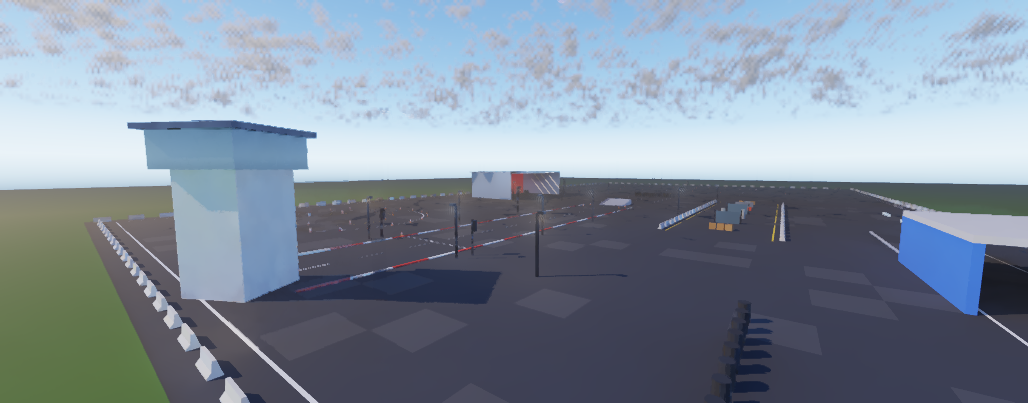
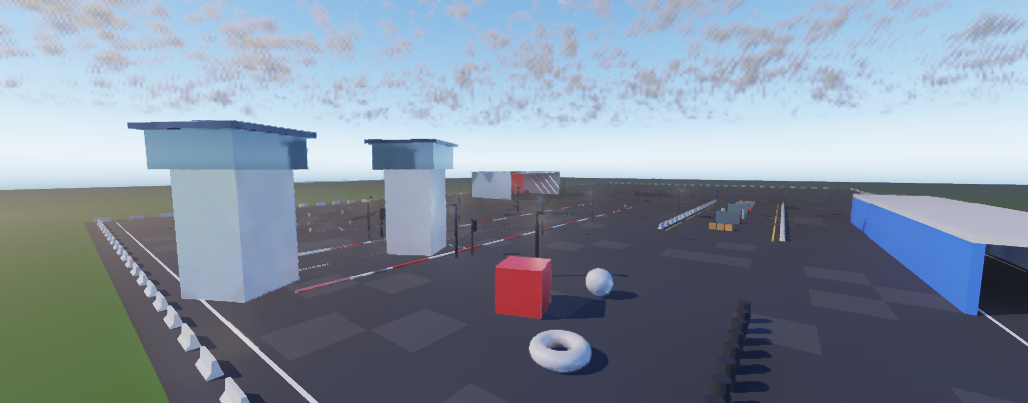
Scene objects part 2: capture images (RTX, GTX, analytic), the Construct dialog and the move handles; README section and Tracker entry; Construct dialog closes cleanly from outside; modifier caption names the shape

diff --git a/Exhibits/SceneViewport/Code/SceneGeometryCapture.cpp b/Exhibits/SceneViewport/Code/SceneGeometryCapture.cpp
@@ -98,7 +98,10 @@ int main(int ArgumentCount, char** Arguments)
         std::vector<uint8_t>          ViewportPixels;
         std::array<uint32_t, 2>       ViewportExtent = {0, 0};
         std::string                   LastStatus;
+        bool                          Frozen = false;   // [-] interface-only ticks: the last image stays, nothing renders
+        Everest::SceneViewportImage   LastImage;
         Workspace.PresentSceneViewport = [&](const Everest::SceneViewportRequest& Request) {
+            if (Frozen && LastImage.Texture != 0) return LastImage;
             const auto Start = std::chrono::steady_clock::now();
             const Everest::SceneViewportRefresh Outcome = Bridge.Render(Request, Workspace.QuerySceneWorld(), Workspace.QueryElapsedSeconds());
             Everest::SceneViewportImage Image;
@@ -112,6 +115,7 @@ int main(int ArgumentCount, char** Arguments)
             }
             std::printf("  viewport %u x %u in %.1f s — %s\n", Outcome.Extent[0], Outcome.Extent[1],
                         std::chrono::duration<double>(std::chrono::steady_clock::now() - Start).count(), Outcome.Status.c_str());
+            LastImage = Image;
             return Image;
         };
         SceneWorld& World    = Workspace.QuerySceneWorld();
@@ -253,10 +257,19 @@ int main(int ArgumentCount, char** Arguments)
         const RecordToken Cube  = Construct("Cube", 3.0f, -44.0f, -21.0f, std::array<float, 3>{0.62f, 0.05f, 0.04f});
         const RecordToken Ball  = Construct("Sphere", 2.0f, -39.0f, -24.0f, std::nullopt);
         const RecordToken Torus = Construct("Torus", 3.0f, -48.0f, -26.0f, std::nullopt);
-        Workspace.QueryOutliner().Select(FindGeometry(World, "Burnout tyre wall")->QueryToken());
+        // 📝 The cube selected: its move handles over the viewport.
+        Workspace.QueryOutliner().Select(Cube);
         Tick(std::max(2, Refreshes / 2));
         WriteWorkspace(OutputDir / "Workspace-Edited.png");
         const std::vector<uint8_t> After = WriteViewport(OutputDir / "Viewport-After.png");
+        // 📝 The Construct dialog (Ctrl+A) over the workspace, on interface-only ticks.
+        Frozen = true;
+        Workspace.QueryConstructDialog().Open();
+        Tick(2);
+        WriteWorkspace(OutputDir / "Workspace-Construct.png");
+        Workspace.QueryConstructDialog().Close();
+        Tick(1);
+        Frozen = false;
         WritePage("Burnout tyre wall");
         WritePage("Tunnel");
         WritePage("Cube");

diff --git a/Frontier/Engine/Interface/ConstructPanel.cpp b/Frontier/Engine/Interface/ConstructPanel.cpp
@@ -94,9 +94,10 @@ void ConstructPanel::Open()
 
 void ConstructPanel::Close()
 {
-    Open_   = false;
-    Raise_  = false;
-    Picked_ = -1;
+    Dismiss_ = Open_ && !Raise_;
+    Open_    = false;
+    Raise_   = false;
+    Picked_  = -1;
 }
 
 //------------------------------------------------------------------------------------------------------------------------
@@ -105,7 +106,17 @@ void ConstructPanel::Close()
 
 std::optional<ConstructOrder> ConstructPanel::Construct(float Scale)
 {
-    if (!Open_) return std::nullopt;
+    if (!Open_)
+    {
+        // 📝 Closed from outside while the modal was up: it is submitted once more to close it.
+        if (Dismiss_ && ImGui::BeginPopupModal(DialogKey, nullptr, ImGuiWindowFlags_NoTitleBar | ImGuiWindowFlags_NoSavedSettings))
+        {
+            ImGui::CloseCurrentPopup();
+            ImGui::EndPopup();
+        }
+        Dismiss_ = false;
+        return std::nullopt;
+    }
     const float           S     = std::max(0.5f, Scale);
     const EditorTypefaces Faces = EditorTypefaces::Resolve();
     if (Raise_)
@@ -134,7 +145,8 @@ std::optional<ConstructOrder> ConstructPanel::Construct(float Scale)
     ImGui::PopStyleColor(3);
     if (!Shown)
     {
-        Close();
+        Open_   = false;
+        Picked_ = -1;
         return std::nullopt;
     }
 
@@ -436,7 +448,8 @@ std::optional<ConstructOrder> ConstructPanel::Construct(float Scale)
     if (Closing)
     {
         ImGui::CloseCurrentPopup();
-        Close();
+        Open_   = false;
+        Picked_ = -1;
     }
     ImGui::EndPopup();
     return Order;

diff --git a/Frontier/Engine/Interface/Inspectors/Geometry/ModifierStackSection.cpp b/Frontier/Engine/Interface/Inspectors/Geometry/ModifierStackSection.cpp
@@ -253,9 +253,12 @@ bool ModifierStackSection::Construct(ControlColumn& Page, GeometryConfiguration&
         // 📝 Copies past the archive's placements come from the reserve (the scene archive's former stress pool) while it lasts.
         const size_t Drawable = std::min<size_t>(Copies, Resolved.Authored + Resolved.Reserved + Resolved.ReserveFree / std::max<uint32_t>(1u, Resolved.Parts));
         const size_t Shown    = Parameters.Visible ? Drawable : 0;
+        // 📝 A shape's facet set is named "Shape <Name>"; the caption names the shape.
+        std::string ShapeName = Resolved.Shapes.empty() ? std::string("engine shape") : Resolved.Shapes.front();
+        if (ShapeName.rfind("Shape ", 0) == 0) ShapeName = ShapeName.substr(6);
         if (Stack.empty() && Resolved.Shape)
             std::snprintf(Text, sizeof(Text), "No modifiers: one %s, laid out from the reserve (%u occupants free). Add an Array to repeat it.",
-                          Resolved.Shapes.empty() ? "engine shape" : Resolved.Shapes.front().c_str(), Resolved.ReserveFree);
+                          ShapeName.c_str(), Resolved.ReserveFree);
         else if (Stack.empty() && Resolved.Authored > 0)
             std::snprintf(Text, sizeof(Text), "No modifiers: the object shows the scene archive's %u placement%s. Add an Array to repeat it.", Resolved.Authored,
                           Resolved.Authored == 1 ? "" : "s");

diff --git a/Frontier/Engine/Interface/ConstructPanel.h b/Frontier/Engine/Interface/ConstructPanel.h
@@ -64,6 +64,7 @@ class ConstructPanel
     std::vector<ConstructCatalogueEntry> Catalogue_{};
     bool                                 Open_    = false;
     bool                                 Raise_   = false;   // [-] the modal opens on the next Construct
+    bool                                 Dismiss_ = false;   // [-] closed from outside: the modal closes on the next Construct
     std::string                          Group_   = "All";
     std::array<char, 96>                 Query_{};
     int                                  Picked_  = -1;      // [-] the catalogue entry of the properties step

diff --git a/Exhibits/SceneViewport/README.md b/Exhibits/SceneViewport/README.md
@@ -368,7 +368,7 @@ global-illumination refresh there, 0.2 s per analytic one.
 
 ![The nine sections of the Render settings page](Images/RenderSettings/Sections.jpg)
 
-## Scene objects: the geometry inspector and the modifier stack
+## Scene objects: the geometry inspector, the modifier stack and the editor's tools
 
 The proving ground's objects are level records: 37 `Geometry` records in
 `Projects/Everest/Content/Levels/Default.levelspace`, in eight Outliner groups (Course, Boundary, Cones, Hangar, Tunnel,
@@ -396,31 +396,88 @@ lay the copies out exactly where the demo's `LevelStructure.js` placed them:
 The **geometry inspector** is the Project Zero editor's object inspector (SultanAladin/Frontier-
 `Experimental/ProjectZeroEditor`, the geometry page of `Inspectors.jsx`) in C++, one class per card
 (`Interface/Inspectors/GeometryInspector`, `Inspectors/Geometry/`). New reusable controls: `RecordHeading`,
-`TransformTable`, `QuickTiles`, `ModifierPanel`, `ChannelRows`, `CardTitleRow` and `NotesField`.
+`TransformTable`, `QuickTiles`, `ModifierPanel`, `ChannelRows`, `CardTitleRow`, `NotesField` and `PlacementGizmo`.
 
-| Card           | Project Zero editor          | Here                                          | Renderer           |
-|----------------|------------------------------|-----------------------------------------------|--------------------|
-| Heading        | breadcrumb, title, notes     | the same; the notes are saved with the level  | —                  |
-| Transform      | position, rotation, scale    | the same: drag to scrub, double-click to type | ✔ all copies move  |
-| Quick controls | six tiles                    | the same tiles; Physics needs Dynamic         | Visible, Locked ✔  |
-| Modifiers      | —                            | Blender's stack (below)                       | ✔                  |
-| Material       | compact MaterialPanel        | the copies' families from `Materials.bin`     | read-only          |
-| Fracture       | switch, Fracture editor      | the switch, cells, impulse, the editor        | authored           |
+| Card           | Project Zero editor       | Here                                            | Renderer           |
+|----------------|---------------------------|-------------------------------------------------|--------------------|
+| Heading        | breadcrumb, title, notes  | the same; the notes are saved with the level    | —                  |
+| Transform      | position, rotation, scale | the same, plus the viewport's W / E / R handles | ✔ all copies move  |
+| Quick controls | six tiles                 | the same tiles; Physics needs Dynamic           | ✔ all but Physics  |
+| Modifiers      | —                         | Blender's stack (below)                         | ✔ with the reserve |
+| Material       | compact MaterialPanel     | the channels and their controls                 | ✔ per object       |
+| Fracture       | switch, Fracture editor   | the switch, cells, impulse, the editor          | authored           |
 
 The modifier stack follows Blender's: *Add modifier* opens the menu (Generate › Array), and each modifier is a card with
 its fold chevron, viewport switch, move up, move down and remove. An Array card has the fit type (fixed count), the
 count, the relative offset (factors of one copy's extent), the constant offset (metres), the rotation step about Z and
 its pivot (each copy, or the object's origin for a radial array). Under the stack the inspector says how many copies
-the stack makes and how many the viewport shows.
+the stack makes, how many come from the reserve and how many the viewport shows.
 
-**How edits reach the renderer.** `Projects/Everest/Source/EverestSceneGeometry` binds each record to its occupants and
-evaluates its transform and modifier stack (`Scene/GeometryLayout`) into occupant placements.
+### Adding, moving and removing objects
+
+The owner asked for the Project Zero editor's tools (its Construct menu for primitives), for moving, adding and
+deleting objects, and for engine shapes as `.toml` files in the content folder with baked distance fields. Fracture
+stays a no-op and the physics (Jolt) is not added yet.
+
+- **Construct** (**Ctrl+A** or the Outliner's **+**): `ConstructPanel.jsx` in C++ (`Interface/ConstructPanel`), with
+  its category rail, search and entity tiles, then the name and properties and *Add to scene*. It offers the six
+  engine shapes and the level's environment and weather records.
+- **Engine shapes** (`EngineContent/ShapeArchives/*.toml`): Cube, Sphere, Cylinder, Cone, Torus and Plane (a 1 cm
+  slab), each with its baked signed distance volume (`.sdfspace`).
+- **Row menu** (right-click an Outliner row): Rename (F2, inline), Hide / Show, Fracture (no action yet), Duplicate
+  (Ctrl+D) and Remove (Del).
+- **Picking:** a click in the viewport selects the object whose part the ray meets first (by bounding box).
+- **Transform handles** (**W**, **E**, **R**; `Interface/Controls/PlacementGizmo`): move along the world axes, turn
+  about the object's Euler axes, scale along its axes or uniformly. Ctrl snaps to 0.25 m, 15° and 0.1; Esc undoes the
+  drag.
+- **Material controls** (the Material card): base colour, roughness, metallic, reflectance, clear coat, transmission
+  and emission, per object.
+
+A shape archive names its primitive, size, tessellation, surface (the `MaterialSpecification` channels), card density
+and distance volume. `ShapeArchiveBake EngineContent/ShapeArchives` tessellates each shape
+(`Engine/Geometry/ShapeArchive`) and bakes its exact distance with a winding-number sign, 40 voxels of 3.125 cm per
+metre of the shape; `ShapeArchiveBake … check` (ctest `ShapeArchiveBakeValidation`) bakes again and compares within
+the float16 rounding. A new shape lands on the ground where the view looks, resting on it.
+
+| Shape    | Triangles | Volume (voxels) | Largest deviation from the ideal form |
+|----------|----------:|-----------------|---------------------------------------|
+| Cube     | 12        | 40 × 40 × 40    | 0 (exact)                             |
+| Sphere   | 960       | 40 × 40 × 40    | 4.78 mm                               |
+| Cylinder | 128       | 40 × 40 × 40    | 2.41 mm                               |
+| Cone     | 64        | 40 × 40 × 40    | —                                     |
+| Torus    | 768       | 40 × 40 × 18    | 7.36 mm                               |
+| Plane    | 12        | 40 × 40 × 9     | 0 (exact)                             |
+
+**How the renderer takes new objects.** The scene archive's stress-test pool (occupants 922–1858) becomes the editor's
+**reserve**: 512 inactive occupants (#922–#1433, under the distance field's identity ceiling of 2044) that copies past
+the archive's and constructed objects take. The rest of the pool leaves every refresh. A reserve occupant first takes
+its template's shape: facet set, cards (captured again in a runtime shelf of the card atlas), BLAS root and profile
+(`IlluminationHost::AssignReserveOccupant`). The engine shapes join as facet sets after the archive's, their baked
+volumes go into the distance atlas, and the reserve lends each shape one occupant at bring-up. Removing one of the
+archive's objects hides its occupants while the level holds Geometry records. When the reserve runs out, the
+inspector says how many copies are not drawn.
+
+**Per-object switches.** Dynamic relights the object's cards every refresh. Cast shadows off leaves it out of the
+shadow runs, the shadow rays and the analytic solar depth (`ShadowExempt`). GI off leaves it out of the distance union
+and the traced rays (`IndirectExempt`). Physics stays an authored flag.
+
+**Materials.** The first edit of a family copies it into the object's own material block (96 blocks after the family
+table; the occupant's override carries `MaterialBlockBit` and the block's base), and its cards are captured again.
+*Revert to the shared family* drops the copy. The other objects sharing the family keep the scene archive's values.
+
+**Scaled copies in the distance field (GTX).** The union multiplies a copy's local distance by 1/√g, where g is the
+largest absolute row sum of AᵀA for its world-to-local map A (Gershgorin). That is exact for a uniform scale and
+never an overestimate otherwise, so a march never steps through a stretched copy.
+
+**How edits reach the renderer.** `Projects/Everest/Source/EverestSceneGeometry` binds each record to its occupants (or
+to an engine shape) and evaluates its transform and modifier stack (`Scene/GeometryLayout`) into occupant placements.
 `Rendering/GlobalIllumination/OccupantRelocation` (beyond the demo) applies them between refreshes:
 
 - the occupant profiles are rewritten, and a moved occupant carries its motion for one refresh (motion vectors);
-- a visibility change rebuilds the draw runs and the card tile lists;
+- a reserve occupant takes its template's shape, cards and profile first;
+- a visibility or shadow change rebuilds the draw runs and the card tile lists;
 - the distance field is invalidated over the old and the new bounds;
-- the moved occupants' cards relight first;
+- the moved occupants' cards relight first, and a changed surface is captured again;
 - the street lamps and lanterns follow their heads, and a hidden head leaves its light off.
 
 A copy at the archive's own placement keeps the archive's transform bit for bit, so the default level renders as before.
@@ -437,21 +494,38 @@ A copy at the archive's own placement keeps the archive's transform bit for bit,
 |---|---|
 | ![Crates](Images/Geometry/Inspector-Woodencrateswest.png) | ![Tower](Images/Geometry/Inspector-Controltower.png) |
 
-**Edits in the viewport** (`Code/SceneGeometryCapture.cpp`, global illumination on SwiftShader): the control tower is
-moved 9 m and turned 30°, the burnout tyre wall re-laid (8 stacks, 1.6 m apart), the tunnel halved (Array 8 → 4) and
-the street lamps hidden, all through the records. Three global-illumination refreshes later 16.3 % of the
-viewport's pixels have changed (mean |Δ| 9.3 levels): the tower and its shadow, the missing lamps, the spaced tyre
-stacks and the shorter tunnel. The analytic illumination (debug view 15) shows the same edits (15.0 % changed).
+**Edits in the viewport** (`Code/SceneGeometryCapture.cpp`, global illumination on SwiftShader), through the records
+and the editor's own paths:
+
+- the control tower moved 9 m and turned 30°, with Cast shadows off;
+- the burnout tyre wall re-laid (8 stacks, 1.6 m apart);
+- the tunnel lengthened from 8 to 12 segments, the last 4 from the reserve;
+- the street lamps hidden and the jump ramp removed;
+- the control tower duplicated 16 m along X (its three parts from the reserve);
+- a 3 m Cube with a red surface of its own, a 2 m Sphere and a 3 m Torus constructed as the dialog adds them.
+
+Three global-illumination refreshes later 17.1 % of the viewport's pixels have changed (mean |Δ| 11.2 levels). The
+GTX distance-field path shows the same edits (17.4 %), with the scaled cube and torus in the distance field, and so
+does the analytic illumination (debug view 15, 16.4 %).
 
 | Before | After |
 |---|---|
 | ![Before](Images/Geometry/Viewport-Before.png) | ![After](Images/Geometry/Viewport-After.png) |
 
-| The workspace after the edits | The burnout tyre wall's page: Array 8, 1.6 m (14 in the archive) |
+| GTX distance-field GI after the edits | The analytic illumination after the edits |
 |---|---|
-| ![Edited](Images/Geometry/Workspace-Edited.png) | ![Burnout tyre wall](Images/Geometry/Inspector-Burnouttyrewall.png) |
+| ![GTX](Images/Geometry/Viewport-After-Distance.png) | ![Analytic](Images/Geometry/Viewport-After-Analytic.png) |
 
-`Code/SceneGeometryValidation.cpp` (ctest `SceneGeometryValidation`, no device) checks the binding and the layouts:
+| The workspace after the edits (GTX run), the cube's move handles | The Construct dialog (Ctrl+A) |
+|---|---|
+| ![Edited](Images/Geometry/Workspace-Edited.png) | ![Construct](Images/Geometry/Workspace-Construct.png) |
+
+| The tunnel's page: Array 12, 4 from the reserve | The cube's page: an engine shape with its own surface |
+|---|---|
+| ![Tunnel](Images/Geometry/Inspector-Tunnel.png) | ![Cube](Images/Geometry/Inspector-Cube.png) |
+
+`Code/SceneGeometryValidation.cpp` (ctest `SceneGeometryValidation`, no device) checks the binding, the layouts and the
+editor's objects:
 
 | Check                                                                                           | Result |
 |-------------------------------------------------------------------------------------------------|--------|
@@ -463,20 +537,30 @@ stacks and the shorter tunnel. The analytic illumination (debug view 15) shows t
 | Kerbs moved 2 m: both strips' 36 occupants moved exactly (error 4.8 × 10⁻⁷)                     | ✔      |
 | Skidpad ring turned 10°: the 24 cones turn about (−30, 30) (error 1.7 × 10⁻⁶ m)                 | ✔      |
 | Street lamps hidden: all 40 poles and heads inactive                                            | ✔      |
-| Control tower with an Array of 2: 2 copies made, 1 shown (the archive holds one)               | ✔      |
+| Control tower with an Array of 2 and no reserve: 2 copies made, 1 shown                         | ✔      |
 | 37 records read back from a saved level as written; placements decompose and invert exactly    | ✔      |
+| 6 engine shapes, each with its baked distance volume                                            | ✔      |
+| a reserve of 512 (#922–#1433): the default level still resolves its 504 placements exactly      | ✔      |
+| Boundary north at count 60: 6 copies from the reserve at the archive's step, with its shape     | ✔      |
+| Construct › Cube: one reserve occupant with the Cube's facet set, at exactly its placement      | ✔      |
+| a duplicate of the control tower: its 3 parts from the reserve, moved exactly 16 m              | ✔      |
+| Cast shadows off, GI off and Dynamic on reach every part's participation, and come back         | ✔      |
+| the cube's own surface: one material block written, the override names it, cards recaptured    | ✔      |
+| the cube's occupant profile carries the block override (0x80000058) for the shaders             | ✔      |
+| the jump ramp removed: its occupant hidden                                                      | ✔ ✔    |
+| Boundary north at 654: 562 shown with the reserve exhausted; back at 54 the reserve returns     | ✔      |
+| the distance scale: exact 2 for a uniform 2, 0.449 ≤ 0.5 for (3, 1, 0.5), 1 for a rigid copy    | ✔      |
 
 **Limits.**
 
-- Copies come from the archive's occupants: an Array shows at most as many copies as the archive holds for the object
-  (60 copies of the 54 north barriers show 54, and the inspector says so). Adding occupants is the next step.
-- Dynamic, Cast shadows, GI and Physics are authored flags, as the Project Zero editor marks them: there is no
-  per-object shadow or GI switch in the renderer yet, and the physics (Jolt) comes next.
-- Materials are shown, not edited: a family is shared (Barrier concrete by six objects), so editing needs per-object
-  material slots.
-- Geometry objects are neither added nor removed in the editor: the scene archive decides what exists.
-- The distance-field (GTX) march reads a scaled copy at its unscaled distances.
-- Not checked with virtualized geometry switched on.
+- The reserve holds 512 occupants: copies and constructed objects beyond that are not drawn, and the inspector says
+  how many. At most 96 objects have surfaces of their own.
+- Picking tests each part's bounding box, not its triangles.
+- The rotation rings follow the Euler angles (Z, then Y, then X): the X and Y rings turn about the object's tilted
+  axes, not the world's.
+- Fracture is a no-op and Physics waits for the physics engine (Jolt).
+- Changing a shape archive's form needs `ShapeArchiveBake` again (the check reports a stale volume).
+- The speed of these paths on a GPU was not measured here: everything ran on SwiftShader.
 
 ## Checks
 

diff --git a/Documentation/Tracker.md b/Documentation/Tracker.md
@@ -1284,3 +1284,31 @@ the 5ec53579 line already in the tree; the owner chose it over porting the demo'
[1 lines of base64/hex data omitted]
   `Package.json`, `Default.levelspace` (53 records, 37 of them `Geometry`) and `README.md` (a Scene objects section).
 - **Commits:** `0ef104c 0ae82b1 99c0f6c 16163aa 9b9be69 b822b26` and this binary commit.
+
+## Adding, moving and removing scene objects; engine shapes with baked distance fields (2026-11-03)
+
+- **Requested:** fix the limits of the previous entry; port the Project Zero editor's tools (its Construct menu for
+  primitives); move, add and delete objects; engine shapes as `.toml` files in the content folder with their distance
+  fields baked. Fracture stays a no-op and the physics (Jolt) is not added yet.
+- **Engine shapes:** `EngineContent/ShapeArchives/{Cube,Sphere,Cylinder,Cone,Torus,Plane}.toml` (primitive, size,
+  tessellation, surface, card density) with baked `.sdfspace` volumes (exact distance, winding-number sign, 3.125 cm
+  voxels). `Engine/Geometry/ShapeArchive` reads and tessellates them; `ShapeArchiveBake` bakes them and its `check`
+  (ctest `ShapeArchiveBakeValidation`) compares a fresh bake within the float16 rounding.
+- **Renderer:** the stress-test pool becomes a reserve of 512 occupants that copies and constructed objects take (a
+  reserve occupant takes its template's facet set, cards, BLAS root and profile); the shapes join as facet sets with
+  their volumes in the distance atlas. Per-object Dynamic, Cast shadows (`ShadowExempt`) and GI (`IndirectExempt`)
+  reach the shadow runs, shadow rays, analytic solar depth, distance union and traced rays. Objects get material blocks
+  of their own (96 after the family table). The distance union bounds a scaled copy's distance (Gershgorin), exact
+  for uniform scale. The occupant profile now carries a block override unchanged (it was dropped as negative).
+- **Editor:** the Construct dialog (`Interface/ConstructPanel`, Ctrl+A or the Outliner's +); the Outliner row menu
+  (Rename with inline editing, Hide / Show, Fracture as a no-op, Duplicate, Remove) and the keys F2, Ctrl+D and Del;
+  picking in the viewport; W / E / R transform handles (`Interface/Controls/PlacementGizmo`, Ctrl snaps, Esc
+  undoes); editable material channels (copy on write into the object's block); the quick controls' captions and the
+  modifier stack's reserve figures.
+- **Validated:** `SceneGeometryValidation` 25 checks (12 new: the six baked shapes, the reserve with exact default
+  placements, an Array past the archive's copies, a constructed cube, a duplicate, the switches, a material block and
+  its profile word, removal, exhaustion and return, the distance scale bound). `SceneGeometryCapture` renders the
+  edits (tower moved, turned and shadowless, tyre wall re-laid, tunnel 8 → 12 with 4 from the reserve, lamps hidden,
+  jump ramp removed, tower duplicated, a red 3 m cube, a sphere and a torus constructed): 17.1 % of the RTX
+  global-illumination viewport changes, 17.4 % on the GTX distance-field path and 16.4 % with the analytic
+  illumination. The capture also renders the Construct dialog and the cube's move handles.
